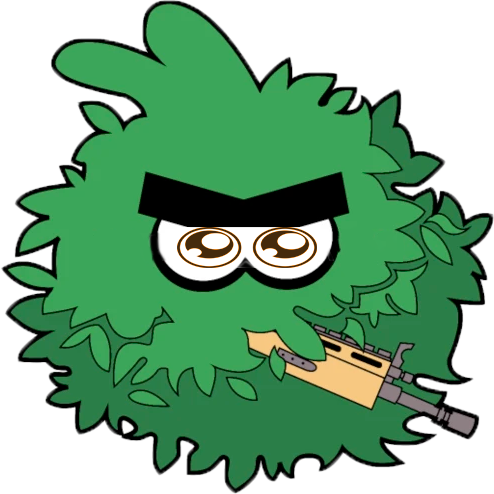
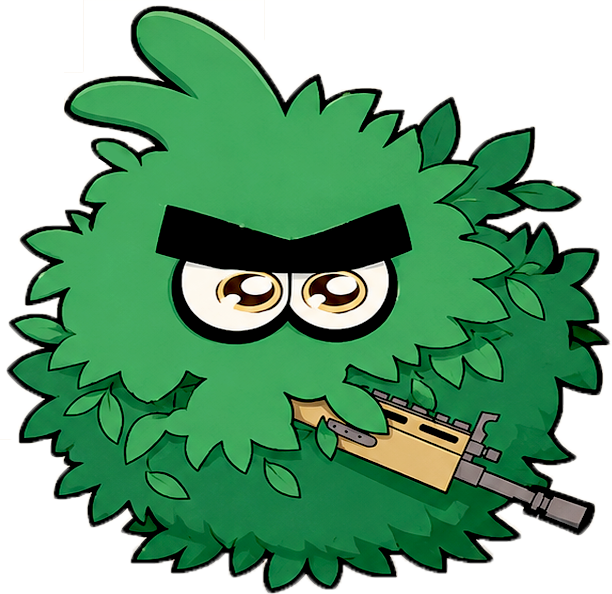
Update character art to the higher-res reuploaded versions
Reprocessed player-token.png, bush-token-1.png, and bush-token-2.png from
the new ToiletPaperMan/AngryBush source uploads and adjusted the sprite
symbol crop/fit ratios to match their new aspect ratios.

diff --git a/index.html b/index.html
@@ -30,17 +30,17 @@
     </radialGradient>
     <symbol id="sprite-tp" viewBox="0 0 100 100">
       <ellipse cx="50" cy="93" rx="32" ry="6" fill="#000" opacity=".18"/>
-      <image href="player-token.png" x="0" y="12.14" width="100" height="75.71" preserveAspectRatio="xMidYMid meet"/>
+      <image href="player-token.png" x="0" y="14.93" width="100" height="70.14" preserveAspectRatio="xMidYMid meet"/>
     </symbol>
 
     <symbol id="sprite-bush" viewBox="0 0 100 100">
       <ellipse cx="50" cy="95" rx="34" ry="5" fill="#000" opacity=".2"/>
-      <image href="bush-token-1.png" x="0" y="5.9" width="100" height="88.2" preserveAspectRatio="xMidYMid meet"/>
+      <image href="bush-token-1.png" x="0" y="2.69" width="100" height="94.62" preserveAspectRatio="xMidYMid meet"/>
     </symbol>
 
     <symbol id="sprite-bush-2" viewBox="0 0 100 100">
       <ellipse cx="50" cy="95" rx="34" ry="5" fill="#000" opacity=".2"/>
-      <image href="bush-token-2.png" x="0" y="0" width="100" height="100" preserveAspectRatio="xMidYMid meet"/>
+      <image href="bush-token-2.png" x="0" y="1.47" width="100" height="97.06" preserveAspectRatio="xMidYMid meet"/>
     </symbol>
 
     <symbol id="sprite-bush-waiter" viewBox="0 0 100 100">
